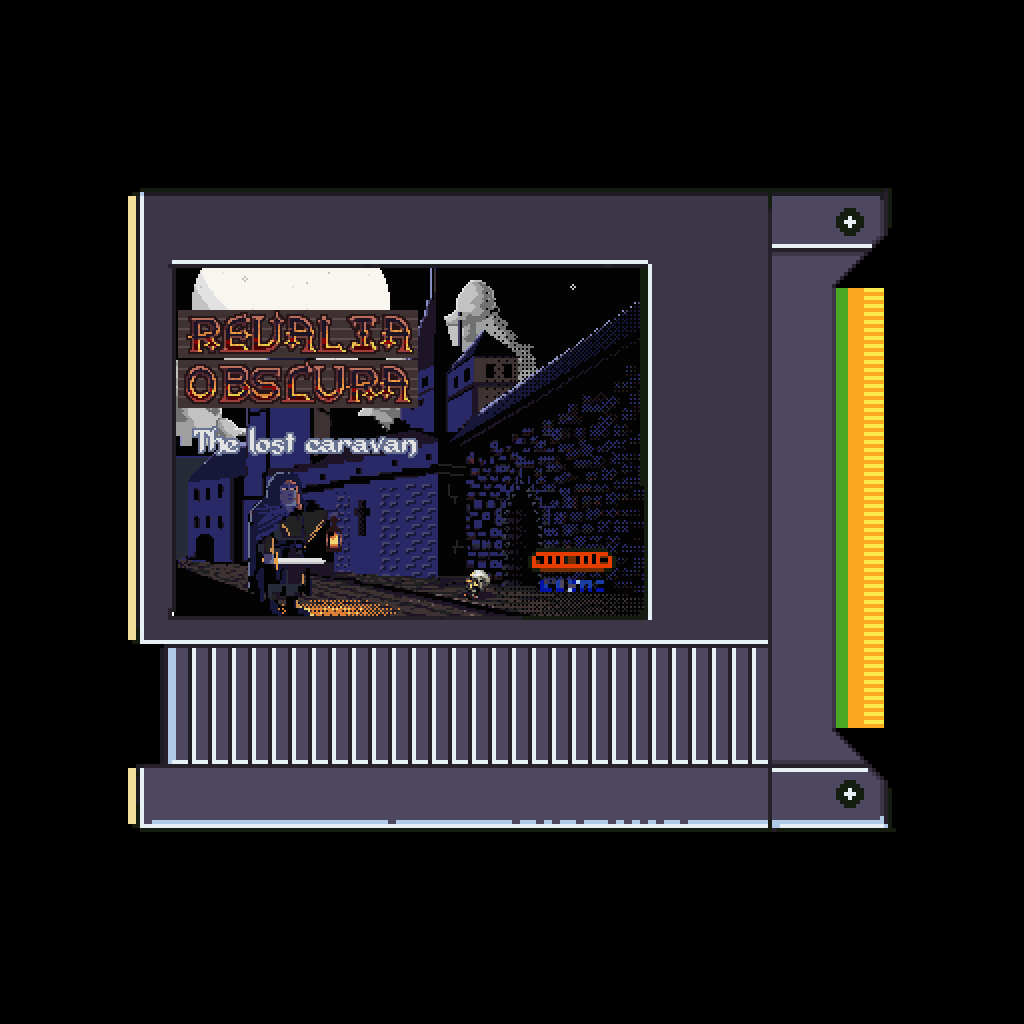
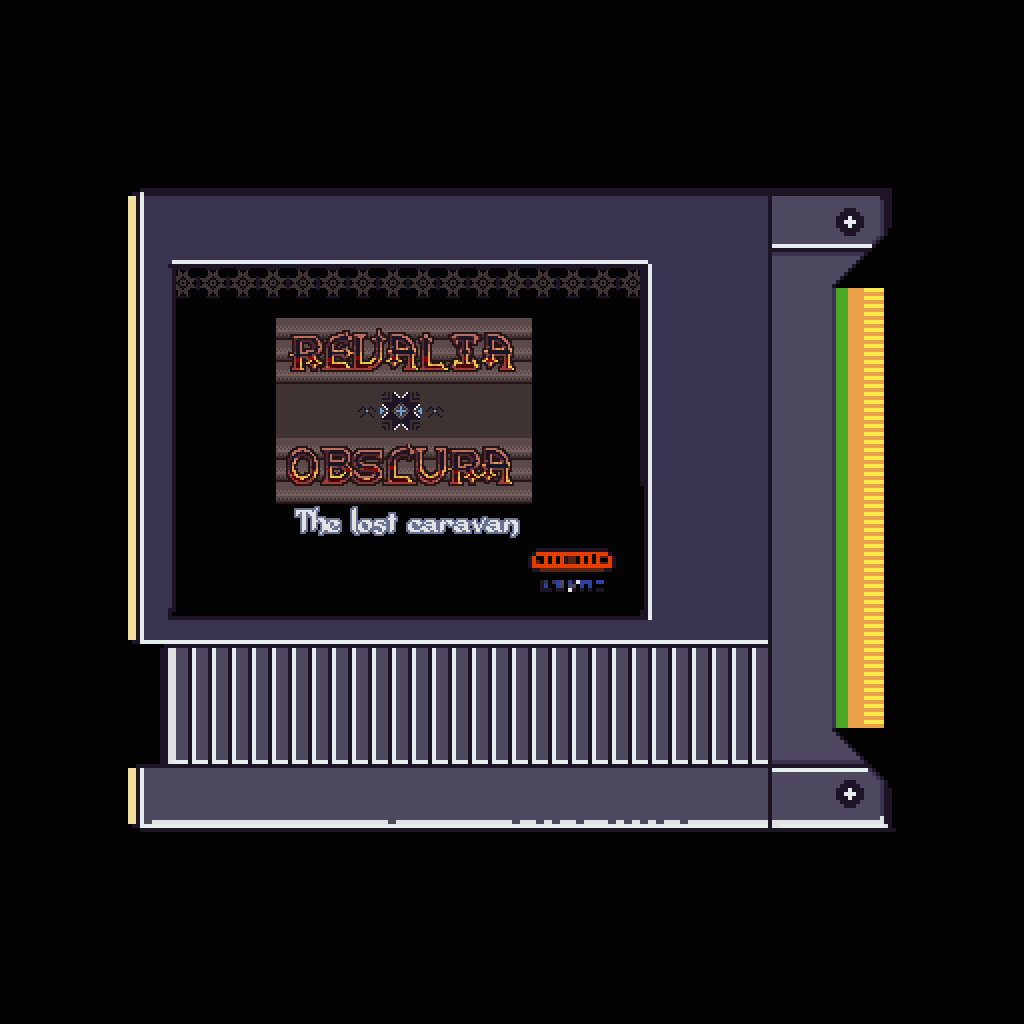
double line responses

diff --git a/revaliaobscura/lib/game/states/game/view/dialog_frame_entity.dart b/revaliaobscura/lib/game/states/game/view/dialog_frame_entity.dart
@@ -40,7 +40,7 @@ class DialogFrameEntity extends PositionedEntity with HasGameRef<RevaliaObs> {
   void render(Canvas canvas) {
     super.render(canvas);
     // Draw the background color
-    final paint = Paint()..color = Color.from(alpha: 0.25, red: 1.0, green: 1.0, blue: 1.0);
+    final paint = Paint()..color = Color.from(alpha: 0.15, red: 41.0/255.0, green: 41.0/255.0, blue: 103.0/255.0);
     canvas.drawRect(size.toRect(), paint);
    
 }
@@ -68,12 +68,8 @@ class DialogFrameEntity extends PositionedEntity with HasGameRef<RevaliaObs> {
     if(current == null){return;}
   
     print(current.text);
-    
-    ColorStatusTextComponent textGreet = ColorStatusTextComponent(current.text,  fontSize: 8, isBlinking: false, interval: 0, tcolor:Color(0xFFFF9000), position: Vector2(16,size.y/3));
-    textGreet.updateUI(ColorStatusTextComponent.CRITICAL);
-    textGreet.add(ColorStatusTextBehaviour(textId:0));
-    textLinesList.add(textGreet);
-    add(textGreet);
+
+    setTittleResponse(current);
 
     for (int i =0; i < current.responses.length;  i++ ) {
     DialogueResponse response = current.responses[i];  
@@ -88,6 +84,21 @@ class DialogFrameEntity extends PositionedEntity with HasGameRef<RevaliaObs> {
 
     addAll(textLinesList); 
 
+  }
+
+  void setTittleResponse(Dialogue current) {
+    List<String> texts = current.text.split('.');
+
+    for (int i =0; i < texts.length;  i++ ) {
+        ColorStatusTextComponent textGreet = ColorStatusTextComponent(texts[i],  fontSize: 8, isBlinking: false, interval: 0, tcolor:Color(0xFFFF9000), position: Vector2(16,12*i+(size.y/3)-16));
+    
+    textGreet.updateUI(ColorStatusTextComponent.CRITICAL);
+    textGreet.add(ColorStatusTextBehaviour(textId:0));
+    textLinesList.add(textGreet);
+    add(textGreet);
+      
+    }
+  
   }
 
   void clearDialog() {

diff --git a/revaliaobscura/lib/game/states/game/view/gameboard_view.dart b/revaliaobscura/lib/game/states/game/view/gameboard_view.dart
@@ -299,24 +299,16 @@ class GameboardView extends World
     // If df exists, remove it first
    
   if( actorDialogueId =="" || actorDialogueId =="end"){
-    clearDialog();
-   
-    
-   
+    removeDialogFrame();
   }
-  else{print("actorDialogueId is empty a la vrg");
+  else{
     df = DialogFrameEntity(position: Vector2(160, 80), size: Vector2(256, 120));
     add(df);
     df.initDialog(actorDialogueId);
   }
- 
-
-      
-      
-    
   }
 
-  void clearDialog() {
+  void removeDialogFrame() {
      df.clearDialog();
      df.removeFromParent();
   }

diff --git a/revaliaobscura/lib/game/states/game/behaviours/dialogue_text_behaviour.dart b/revaliaobscura/lib/game/states/game/behaviours/dialogue_text_behaviour.dart
@@ -26,7 +26,7 @@ class ColorStatusTextBehaviour extends Behavior<ColorStatusTextComponent>
     String nextDialogueEvent = DialogueManager.chooseResponse( textId);
     
     print("ColorStatusTextBehaviour nextDialogueEvent ${nextDialogueEvent}");
-    gameRef.gboard.clearDialog();
+    gameRef.gboard.removeDialogFrame();
     gameRef.gboard.callRenderDialogue(nextDialogueEvent);
     
       
